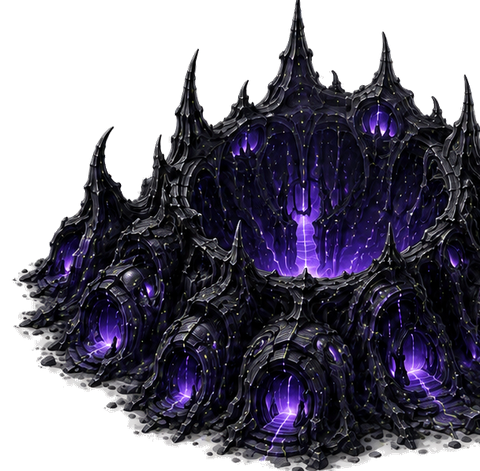
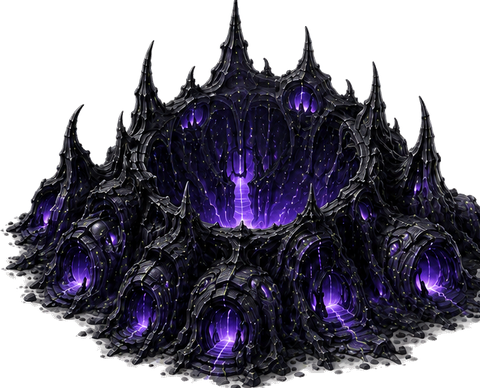
Corrige l'illustration du bâtiment Infanterie Noxéens (Fosse d'Émergence, pas Enceinte)
Audit systématique des 14 illustrations de bâtiments contre le nouveau lot de
planches de référence envoyé par Liamor (noms officiels cohérents avec les
unités déjà nommées en code : Aquiloryon, Aquisphères, Aquilances, Ombres,
Léviaphénix, Noxedrake...). Un seul vrai mismatch trouvé : le bâtiment
Infanterie Noxéens affichait l'illustration de la défense territoriale
(Enceinte Noxéenne) au lieu de la sienne (Fosse d'Émergence, explicitement
sous-titrée PRODUCTION D'INFANTERIE sur sa planche). Les 13 autres fichiers
correspondaient déjà correctement.

diff --git a/TODO_WOTOL.md b/TODO_WOTOL.md
@@ -2474,3 +2474,31 @@ des armes a celui des unites. Contexte : test complet prevu sur PC dans ~2 jours
   (formes de batiments modelisees a la main d'apres les planches, camera avec leger pan/zoom
   borne, decor de cristaux disseminee evoquant le biome, nom de lieu propre au lieu de "Cite
   d'Aquiloris") reste largement a faire au-dela du fix de nom deja applique ("AQUILOR").
+
+## Bâtiment Infanterie Noxéens : mauvaise illustration corrigée (02/08/2026)
+
+- Nouveau lot de planches de référence de Liamor (noms officiels des bâtiments de la cité,
+  cohérents avec les unités déjà nommées dans le code : Aquiloryon, Aquisphères, Aquilances,
+  Aquilombres/Ombres, Léviaphénix côté Aquiloris ; Noxedrake, mastodontes côté Noxéens).
+  Vérification systématique des 14 fichiers `Content/UI/Buildings/Building*.png` existants
+  contre les planches reçues (comparaison visuelle directe) :
+  - **BUG CONFIRME** : `BuildingNoxeensInfanterie.png` affichait "Enceinte Noxéenne" (planche
+    "BÂTIMENT – DÉFENSE TERRITORIALE", donc PAS un bâtiment de production) au lieu de "Fosse
+    d'Émergence" (planche explicitement sous-titrée "BÂTIMENT – PRODUCTION D'INFANTERIE").
+    Corrige un vrai bug de contenu (bâtiment Infanterie Noxéens affichait la mauvaise
+    illustration depuis son intégration le 31/07). Recadrage + détourage (flood-fill depuis
+    les bords, meme technique que les portraits de héros) de la planche "Fosse d'Émergence"
+    fournie -> fichier remplacé.
+  - Les 13 autres fichiers (Central/Defense/Infanterie/Distance/Montee/Speciale/Mythique ×
+    2 factions) correspondent DEJA correctement aux planches reçues (Cristalliseur,
+    Abysalyseur, Tourelle hydrocristalline, Œil bioluminal, Académie Aquiloryon, Champ de Tir
+    des Aquisphères, Dôme des Aquilances, Nexus des Ombres, Cœur-Éclat du Léviaphénix, Cavité
+    des mastodontes, Antre du Noxedrake, Foyer des décharges, Faille Abyssale) — aucun autre
+    changement necessaire sur ces 13 fichiers.
+- **Reste en attente / hors scope de cette passe** : plusieurs planches reçues n'ont PAS de
+  slot dédié dans le code actuel (`WOTOLBuildingArt` ne connaît que Central/Defense/5
+  catégories de production) : "Enceinte Noxéenne" (défense territoriale, 2 variantes de
+  couleur), "Trône des profondeurs", "Carrière des Profondeurs", "Puits des courants
+  cristallins", "Bastion cristallin". Pas de bâtiment/mécanique existante à laquelle les
+  raccrocher sans inventer un nouveau système (hors scope d'une simple correction de bug) —
+  a garder sous le coude si Liamor precise leur usage prevu.
